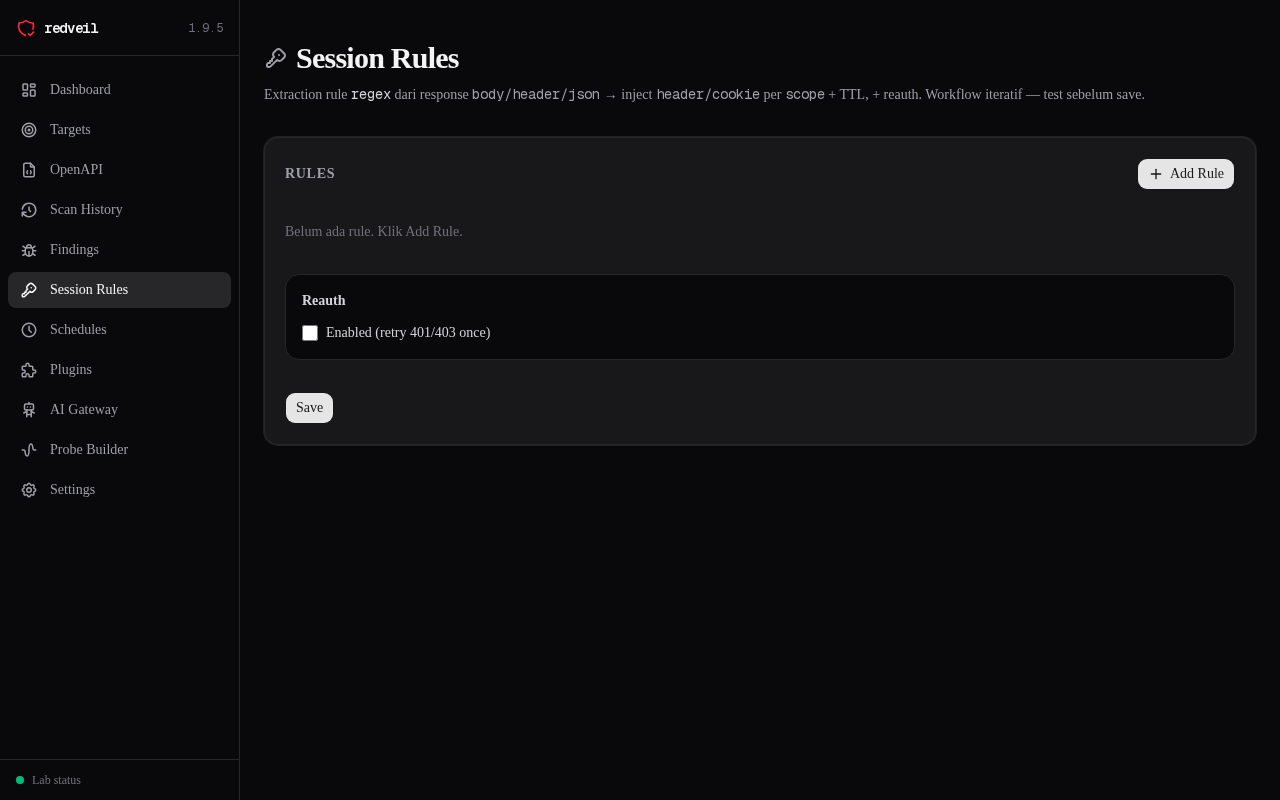
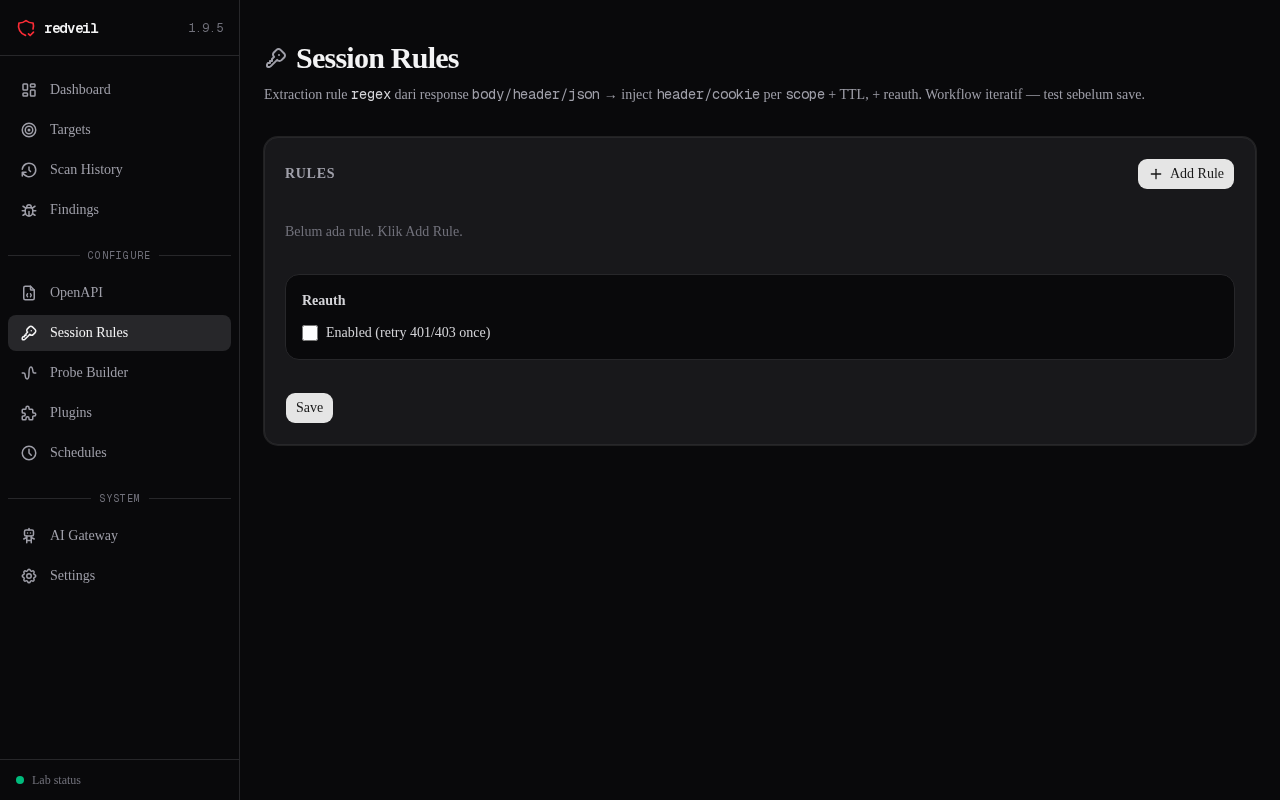
style(sidebar): workflow order per proposal — Dashboard→Targets→Scans→Findings → [Configure] OpenAPI→Session Rules→Probe Builder→Plugins→Schedules → [System] AI Gateway→Settings
separator Configure/System h-px bg-zinc-800 font-mono 10px uppercase, nav overflow-y-auto, order matches user workflow Dashboard→Targets→Scan History→Findings → Configure → System, rebuild 23/23 + screenshots phase-C 15 updated (separators visible)

diff --git a/ui/frontend/src/components/sidebar.tsx b/ui/frontend/src/components/sidebar.tsx
@@ -25,17 +25,23 @@ interface NavItem {
   icon: React.ComponentType<{ className?: string; size?: number | string }>;
 }
 
-const navItems: NavItem[] = [
+type NavEntry =
+  | NavItem
+  | { type: "separator"; label: string };
+
+const navItems: NavEntry[] = [
   { label: "Dashboard", href: "/", icon: IconLayoutDashboard },
   { label: "Targets", href: "/targets", icon: IconTarget },
-  { label: "OpenAPI", href: "/openapi", icon: IconFileCode },
   { label: "Scan History", href: "/scans", icon: IconHistory },
   { label: "Findings", href: "/findings", icon: IconBug },
+  { type: "separator", label: "Configure" },
+  { label: "OpenAPI", href: "/openapi", icon: IconFileCode },
   { label: "Session Rules", href: "/session-rules", icon: IconKey },
-  { label: "Schedules", href: "/schedules", icon: IconClock },
-  { label: "Plugins", href: "/plugins", icon: IconPuzzle },
-  { label: "AI Gateway", href: "/ai", icon: IconRobot },
   { label: "Probe Builder", href: "/probe-builder", icon: IconWaveSine },
+  { label: "Plugins", href: "/plugins", icon: IconPuzzle },
+  { label: "Schedules", href: "/schedules", icon: IconClock },
+  { type: "separator", label: "System" },
+  { label: "AI Gateway", href: "/ai", icon: IconRobot },
   { label: "Settings", href: "/settings", icon: IconSettings },
 ];
 
@@ -54,17 +60,29 @@ export function Sidebar() {
       </div>
 
       {/* Nav */}
-      <nav className="flex-1 space-y-1 px-2 py-4">
-        {navItems.map((item) => {
+      <nav className="flex-1 space-y-1 overflow-y-auto px-2 py-4">
+        {navItems.map((item, idx) => {
+          if ("type" in item && item.type === "separator") {
+            return (
+              <div key={`sep-${idx}-${item.label}`} className="pt-4 pb-1">
+                <div className="mb-1 flex items-center gap-2">
+                  <div className="h-px flex-1 bg-zinc-800" />
+                  <span className="font-mono text-[10px] uppercase tracking-widest text-zinc-500">{item.label}</span>
+                  <div className="h-px flex-1 bg-zinc-800" />
+                </div>
+              </div>
+            );
+          }
+          const nav = item as NavItem;
           const active =
-            item.href === "/"
+            nav.href === "/"
               ? pathname === "/"
-              : pathname?.startsWith(item.href);
-          const Icon = item.icon;
+              : pathname?.startsWith(nav.href);
+          const Icon = nav.icon;
           return (
             <Link
-              key={item.href}
-              href={item.href}
+              key={nav.href}
+              href={nav.href}
               className={cn(
                 "flex items-center gap-3 rounded-md px-3 py-2 text-sm transition-colors",
                 active
@@ -73,7 +91,7 @@ export function Sidebar() {
               )}
             >
               <Icon size={18} />
-              <span>{item.label}</span>
+              <span>{nav.label}</span>
             </Link>
           );
         })}

diff --git a/REDVEIL_UI_PROGRESS.md b/REDVEIL_UI_PROGRESS.md
@@ -819,8 +819,7 @@ oast:
 
 **Trigger:** Koreksi `DESIGN.md bukan lock IA` — 3 capability user-facing butuh dedicated page (prinsip: internal→tidak, workflow besar→buat route). Approved `boleh gas` 2026-09-10.
 
-**Sidebar:** `ui/frontend/src/components/sidebar.tsx:25` `IconFileCode/IconKey/IconRobot` (Tabler 18-20 muted) urutan:
-`Dashboard / → Targets /targets → OpenAPI /openapi → Scan History /scans → Findings /findings → Session Rules /session-rules → Schedules /schedules → Plugins /plugins → AI Gateway /ai → Probe Builder /probe-builder → Settings /settings`
+**Sidebar:** `ui/frontend/src/components/sidebar.tsx:25-80` `IconFileCode/IconKey/IconRobot` (Tabler 18-20 muted) urutan **workflow** `Dashboard / → Targets /targets → Scan History /scans → Findings /findings → [separator Configure] OpenAPI /openapi → Session Rules /session-rules → Probe Builder /probe-builder → Plugins /plugins → Schedules /schedules → [separator System] AI Gateway /ai → Settings /settings` (separators `Configure`/`System` `h-px bg-zinc-800` + `font-mono 10px uppercase tracking-widest`)
 Token `DESIGN.md` `active bg-zinc-800` `text-zinc-400→200`, `border-zinc-800 bg-zinc-950`.
 
 **Wireframe:**
